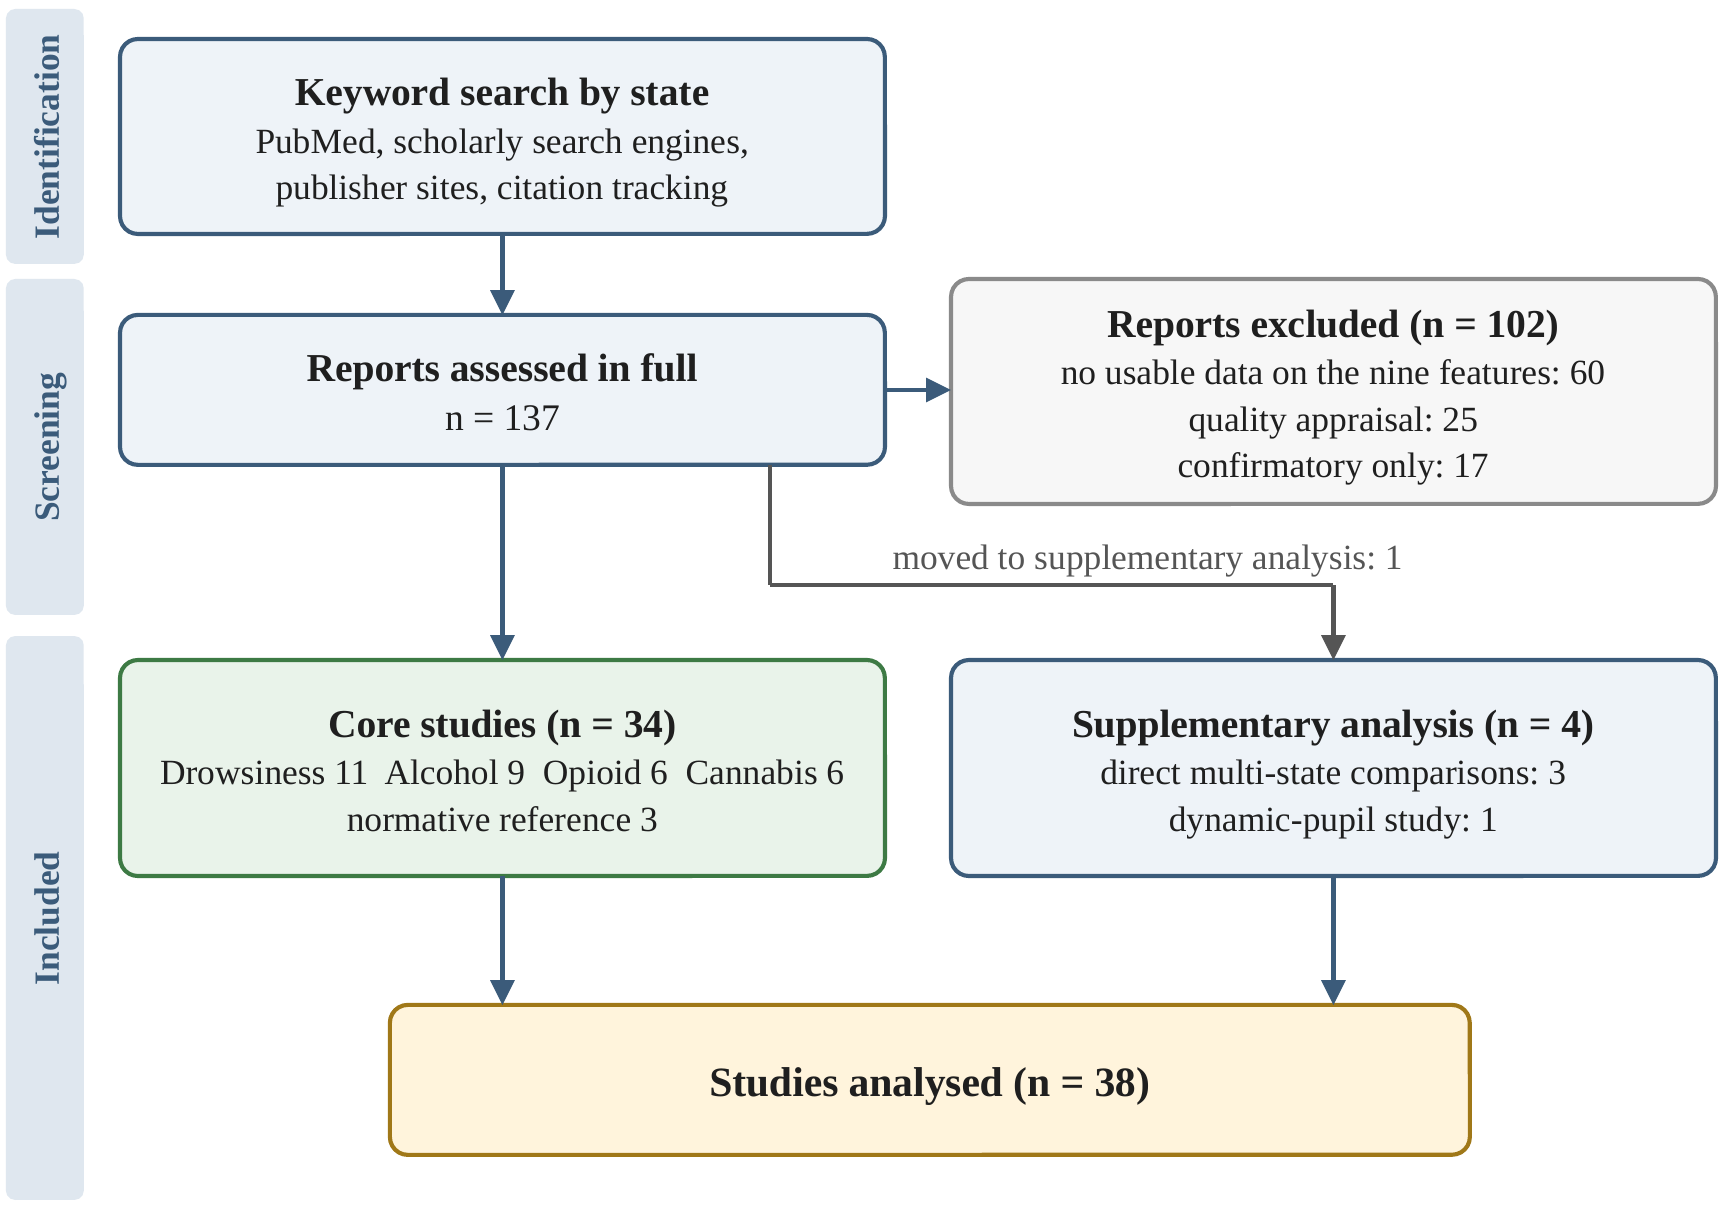
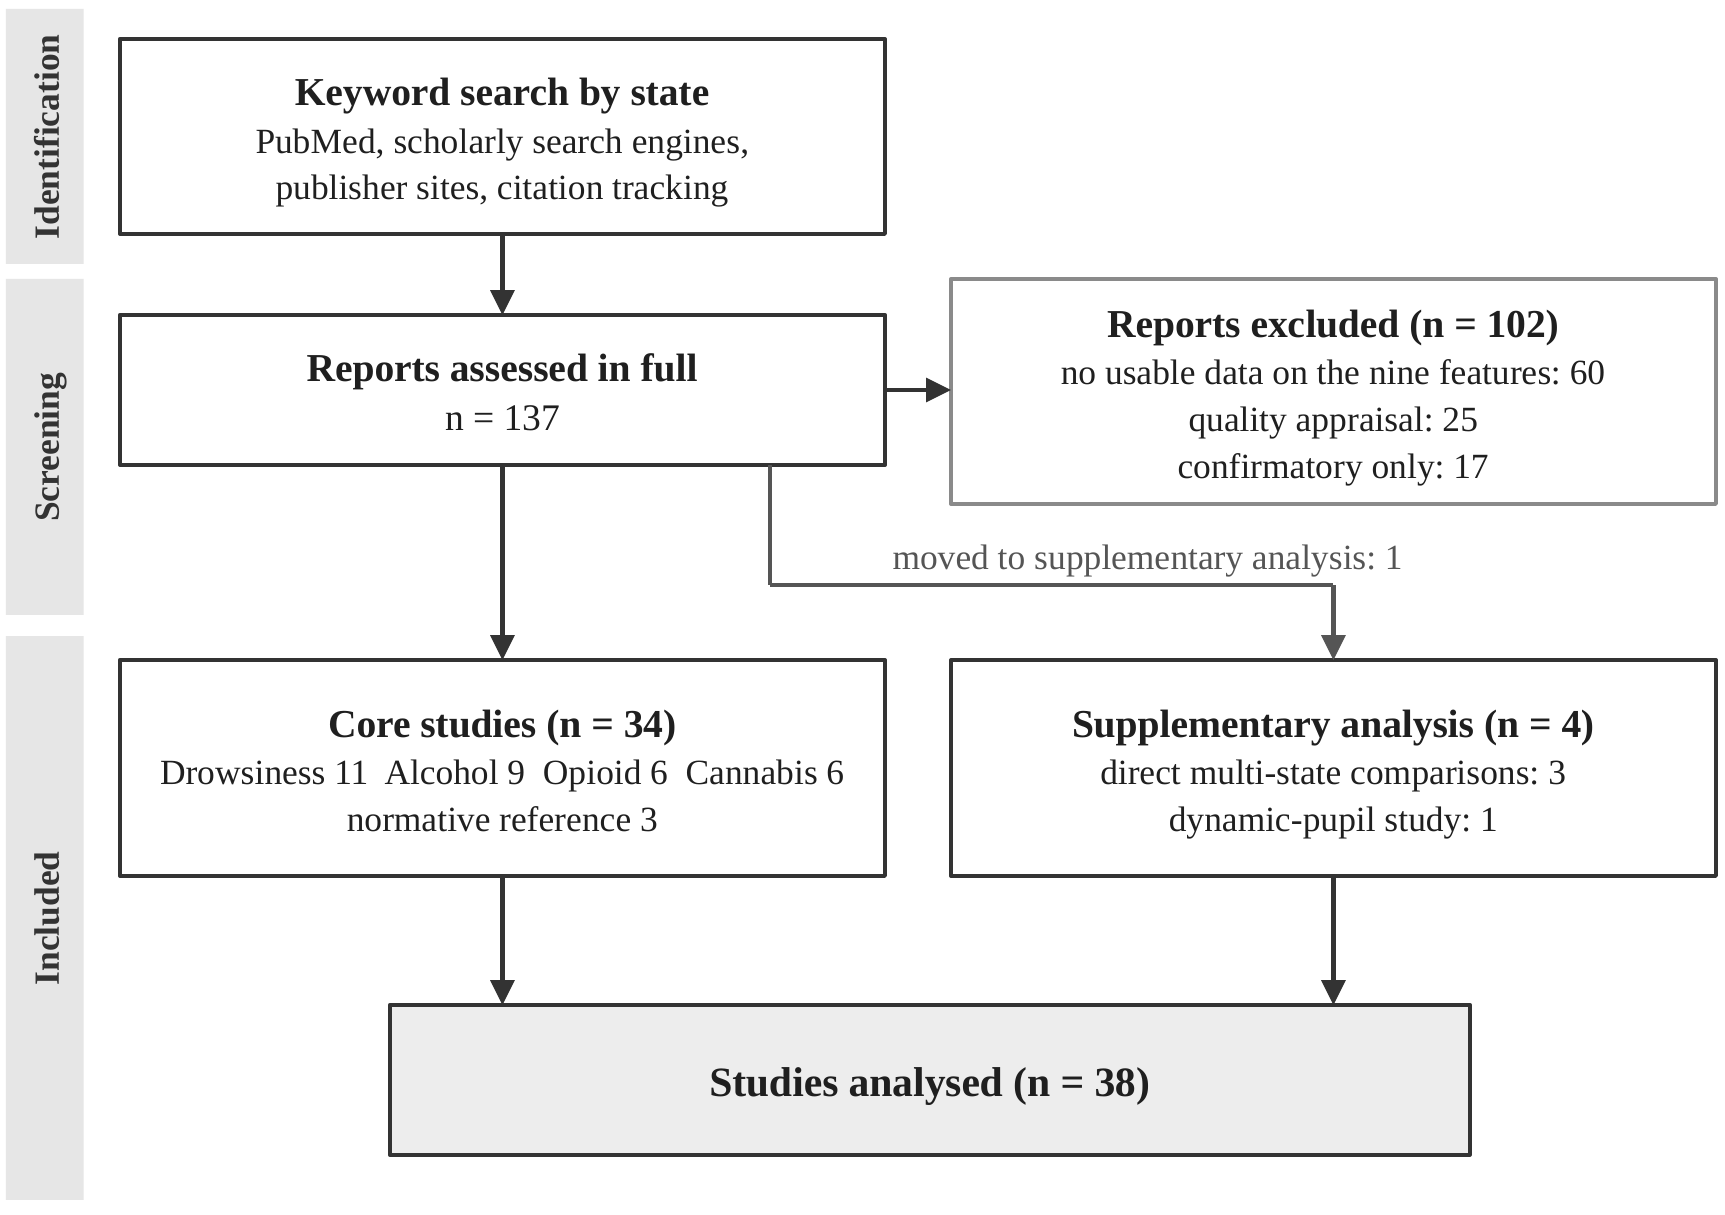
Graphic modification

diff --git a/src/make_main_figures.py b/src/make_main_figures.py
@@ -20,13 +20,13 @@ plt.rcParams.update({"font.family": "serif", "font.serif": ["Times New Roman", "
                      "axes.titleweight": "bold", "mathtext.fontset": "stix"})
 STATES = ["AL", "DR", "AC", "OP", "CB"]
 LAB = {"AL": "Alert", "DR": "Drowsy", "AC": "Alcohol", "OP": "Opioid", "CB": "Cannabis"}
-COL = {"AL": "#0072B2", "DR": "#E69F00", "AC": "#009E73", "OP": "#D55E00", "CB": "#CC79A7"}
+COL = {"AL": "#6b7b8c", "DR": "#d1a054", "AC": "#6f9a6a", "OP": "#b0573d", "CB": "#8a6a96"}
 INK = "#1f1f1f"
 FEATS = P["features"]
 FN = {"P": "Eye closure (%)", "BD": "Blink duration", "SL": "Saccade latency", "PV": "Saccade peak velocity",
       "G": "Pursuit gain", "FD": "Fixation duration", "D": "Pupil diameter", "A": "PLR amplitude", "V": "PLR velocity"}
 SYM = {"P": "$P$", "BD": "$B_d$", "SL": "$L_s$", "PV": "$V_p$", "G": "$G_p$", "FD": "$F_d$", "D": "$D_p$", "A": "$A_c$", "V": "$V_c$"}
-seq = LinearSegmentedColormap.from_list("seq", ["#f4f8fb", "#9ecae1", "#2b6ca3", "#08306b"])
+seq = LinearSegmentedColormap.from_list("navy", ["#ffffff", "#c9d6e3", "#7f9cb8", "#3d5f82", "#14283f"])
 W = 6.3
 
 
@@ -54,7 +54,7 @@ for j, s in enumerate(STATES[1:]):
             T[i][j] = "mixed (n.s.)" if c["dir_sign"] == 0 else ("↑ dir. only" if c["dir_sign"] > 0 else "↓ dir. only")
         else:
             T[i][j] = "no data"
-cmap = LinearSegmentedColormap.from_list("div", ["#2166ac", "#67a9cf", "#d1e5f0", "#f2f2f2", "#fbe3d6", "#ef8a62", "#b2182b"])
+cmap = plt.get_cmap("RdBu_r")
 ax.imshow(M, cmap=cmap, vmin=-1, vmax=1, aspect="auto")
 for i in range(len(FEATS)):
     for j in range(4):
@@ -90,7 +90,7 @@ save(fig, "f_separability.png")
 fig = plt.figure(figsize=(W, 3.3))
 gs = fig.add_gridspec(1, 2, width_ratios=[1, 1.25], wspace=0.32, left=0.09, right=0.99, top=0.90, bottom=0.30)
 ax = fig.add_subplot(gs[0, 0]); ns = [int(k) for k in R["n_curve"]]
-for m, mk, c, lab in (("HMID", "s", "#2b6ca3", "HMID"), ("Random Forest", "^", "#08306b", "RF")):
+for m, mk, c, lab in (("HMID", "s", "#7a7a7a", "HMID"), ("Random Forest", "^", "#000000", "RF")):
     ax.plot(ns, [R["n_curve"][str(n)][m]["f1"][0] for n in ns], marker=mk, ms=4, color=c, lw=1.6, label=lab + " F1")
     ax.plot(ns, [R["n_curve"][str(n)][m]["alert_fpr"][0] for n in ns], marker=mk, ms=4, color=c, lw=1.1, ls="--", label=lab + " FAR")
 ax.set_xscale("log"); ax.set_xticks(ns); ax.set_xticklabels(ns); ax.set_xlabel("Averaged 1-min epochs"); ax.set_ylim(0, 1.02)
@@ -108,7 +108,7 @@ fl = ref["f1"] - np.array([[G[f"{f}|{r}"]["RF"]["f1"] for r in RES] for f in FPS
 ol = ref["rec_OP"] - np.array([[G[f"{f}|{r}"]["RF"]["rec_OP"] for r in RES] for f in FPS])
 ok = (fl <= 0.03) & (ol <= 0.03)
 fig = plt.figure(figsize=(W, 6.1))
-gs = fig.add_gridspec(2, 2, height_ratios=[1, 1.05], hspace=0.45, wspace=0.30, left=0.10, right=0.98, top=0.95, bottom=0.08)
+gs = fig.add_gridspec(2, 2, height_ratios=[1, 1.05], hspace=0.45, wspace=0.30, left=0.10, right=0.86, top=0.95, bottom=0.08)
 for k, (M, ttl) in enumerate(((fl, "(a) Macro-F1 loss"), (ol, "(b) Opioid-recall loss"))):
     ax = fig.add_subplot(gs[0, k]); ax.imshow(M, cmap=seq.reversed(), aspect="auto", origin="lower", vmin=0, vmax=0.08)
     for a in range(len(FPS)):
@@ -116,15 +116,17 @@ for k, (M, ttl) in enumerate(((fl, "(a) Macro-F1 loss"), (ol, "(b) Opioid-recall
             v = M[a, b]
             ax.text(b, a, f"{v:.3f}", ha="center", va="center", fontsize=MIN, fontweight="bold" if v <= 0.03 else "normal", color="white" if v < 0.03 else INK)
             if ok[a, b]:
-                ax.add_patch(plt.Rectangle((b - 0.5, a - 0.5), 1, 1, fill=False, ec="#D55E00", lw=1.5))
+                ax.add_patch(plt.Rectangle((b - 0.5, a - 0.5), 1, 1, fill=False, ec="black", lw=2.0))
     ax.set_xticks(range(len(RES))); ax.set_xticklabels([f"{r:.2f}" for r in RES]); ax.set_yticks(range(len(FPS))); ax.set_yticklabels(FPS)
     ax.set_xlabel("Pupil resolution (mm)"); ax.set_ylabel("Frame rate (fps)"); ax.set_title(ttl); clean(ax)
 ax = fig.add_subplot(gs[1, :]); fov = np.linspace(30, 130, 200)
-for rr, ls in ((0.30, ":"), (0.20, "-"), (0.15, "--"), (0.10, "-.")):
-    ax.plot(fov, 0.5 * 2 * 0.65 * np.tan(np.radians(fov) / 2) * 1000 / rr, ls, color="#08306b", lw=1.5, label=f"r = {rr:.2f} mm")
-for name, Hs, c in (("1.0 MP (1280 px)", 1280, "#6b6b6b"), ("1.5 MP (1124 px)", 1124, "#9a9a9a"), ("5 MP (2560–2592 px)", 2592, "#D55E00")):
-    ax.axhline(Hs, color=c, lw=1.0, ls=(0, (4, 2))); ax.text(127, Hs * (1.07 if Hs == 1280 else 0.88), name, fontsize=MIN + 0.5, ha="right", va="center", color=c)
+for rr, ls, cv in ((0.30, ":", 0.45), (0.20, "-", 0.62), (0.15, "--", 0.80), (0.10, "-.", 1.0)):
+    yv = 0.5 * 2 * 0.65 * np.tan(np.radians(fov) / 2) * 1000 / rr
+    ax.plot(fov, yv, ls=ls, color=seq(cv), lw=2.0)
+    ax.text(131, yv[-1], f"r = {rr:.2f} mm", fontsize=MIN + 0.5, va="center", ha="left", color=seq(cv), clip_on=False)
+for name, Hs, c in (("1.0 MP (1280 px)", 1280, "#8a8a8a"), ("1.5 MP (1124 px)", 1124, "#8a8a8a"), ("5 MP (2560–2592 px)", 2592, "#b0573d")):
+    ax.axhline(Hs, color=c, lw=1.0, ls=(0, (2, 2))); ax.text(127, Hs * (1.07 if Hs == 1280 else 0.88), name, fontsize=MIN + 0.5, ha="right", va="center", color=c)
 ax.set_yscale("log"); ax.set_ylim(500, 15000); ax.set_xlim(30, 130); ax.set_xlabel("Horizontal field of view (deg)"); ax.set_ylabel("Required horizontal pixels")
-ax.set_title("(c) Pixel budget (d = 0.65 m, κ = 0.5)"); ax.legend(frameon=False, loc="upper left", ncol=2)
+ax.set_title("(c) Pixel budget (d = 0.65 m, κ = 0.5)")
 save(fig, "f_requirement.png")
 print("main figures ok")

diff --git a/src/make_figures.py b/src/make_figures.py
@@ -18,12 +18,14 @@ plt.rcParams.update({"font.family": "serif", "font.serif": ["Times New Roman", "
                      "axes.titlesize": 10.5, "mathtext.fontset": "stix"})
 STATES = ["AL", "DR", "AC", "OP", "CB"]
 LAB = {"AL": "Alert", "DR": "Drowsy", "AC": "Alcohol", "OP": "Opioid", "CB": "Cannabis (THC)"}
-COL = {"AL": "#0072B2", "DR": "#E69F00", "AC": "#009E73", "OP": "#D55E00", "CB": "#CC79A7"}
+COL = {"AL": "#6b7b8c", "DR": "#d1a054", "AC": "#6f9a6a", "OP": "#b0573d", "CB": "#8a6a96"}
+LC = COL
+LS = {"AL": "-", "DR": "--", "AC": "-", "OP": ":", "CB": "-."}
 INK, MUTED = "#1f1f1f", "#6b6b6b"
 FEATS = P["features"]
 FN = {"P": "Eye closure (%)", "BD": "Blink duration (ms)", "SL": "Saccade latency (ms)", "PV": "Saccade peak velocity (deg/s)",
       "G": "Smooth-pursuit gain", "FD": "Fixation duration (ms)", "D": "Pupil diameter (mm)", "A": "PLR amplitude (%)", "V": "PLR velocity (mm/s)"}
-seq = LinearSegmentedColormap.from_list("seq", ["#f4f8fb", "#9ecae1", "#2b6ca3", "#08306b"])
+seq = LinearSegmentedColormap.from_list("navy", ["#ffffff", "#c9d6e3", "#7f9cb8", "#3d5f82", "#14283f"])
 
 
 def save(fig, n):
@@ -36,7 +38,7 @@ MU = {s: np.array(v) for s, v in P["MU_E"].items()}; SD = {s: np.array(v) for s,
 fig, axs = plt.subplots(3, 3, figsize=(7.6, 6.4))
 for k, ax in enumerate(axs.flat):
     for j, s in enumerate(STATES):
-        ax.bar(j, MU[s][k], width=0.72, color=COL[s], edgecolor="white")
+        ax.bar(j, MU[s][k], width=0.72, color=COL[s], edgecolor="white", lw=0.4)
         ax.errorbar(j, MU[s][k], yerr=SD[s][k], color=INK, capsize=2.5, lw=0.9)
     ax.set_xticks(range(5)); ax.set_xticklabels(STATES, fontsize=8); ax.set_title(FN[FEATS[k]], fontsize=8.5); ax.tick_params(labelsize=8)
 fig.tight_layout(); save(fig, "f_archetypes.png")
@@ -52,7 +54,7 @@ for s in STATES:
     tt = t - t_on - lat; u = np.clip(tt / tc, 0, 1)
     y = d0 - amp * (3 * u ** 2 - 2 * u ** 3)
     rec = np.where(tt > tc + 0.15, amp * (1 - np.exp(-(tt - tc - 0.15) / 1.0)), 0)
-    axs[0].plot(t, y + rec, color=COL[s], lw=2, label=LAB[s], ls="--" if s == "OP" else "-")
+    axs[0].plot(t, y + rec, color=LC[s], lw=1.6, label=LAB[s], ls=LS[s])
 axs[0].axvline(t_on, color=MUTED, lw=0.8, ls=":"); axs[0].set_xlabel("Time (s)"); axs[0].set_ylabel("Pupil diameter (mm)"); axs[0].set_title("(a) Pupillary light reflex")
 tm = np.linspace(0, 400, 4000); dt = (tm[1] - tm[0]) / 1000; AMP = {}
 xs = np.linspace(0, 1, 4001); g0 = xs ** 1.5 * (1 - xs) ** 2.2; gmax = g0.max(); gs = g0 / gmax; gint = np.trapezoid(gs, xs)
@@ -61,7 +63,7 @@ for s in STATES:
     x = (tm - sl) / (1000 * T)
     v = np.where((x > 0) & (x < 1), np.clip(x, 0, 1) ** 1.5 * (1 - np.clip(x, 0, 1)) ** 2.2, 0) / gmax * vp
     AMP[s] = (np.trapezoid(v, tm) / 1000, v.max())
-    axs[1].plot(tm, v, color=COL[s], lw=2, ls="--" if s == "OP" else "-")
+    axs[1].plot(tm, v, color=LC[s], lw=1.6, ls=LS[s])
 axs[1].set_xlabel("Time from target onset (ms)"); axs[1].set_ylabel("Eye angular velocity (deg/s)"); axs[1].set_title("(b) Saccadic velocity profile (15°)")
 h, l = axs[0].get_legend_handles_labels(); fig.legend(h, l, ncol=5, frameon=False, fontsize=8, loc="lower center", bbox_to_anchor=(0.5, -0.06))
 fig.tight_layout(rect=(0, 0.06, 1, 1)); save(fig, "f_dynamics.png")
@@ -73,7 +75,7 @@ def bateman(t, ka, ke):
 traj = {"DR": 1 / (1 + np.exp(-(tt - 60) / 12)), "AC": bateman(tt, 3.0, 0.3), "OP": 1 - np.exp(-tt / 10), "CB": bateman(tt, 2.0, 0.8)}
 fig, ax = plt.subplots(figsize=(5.6, 2.9))
 for s, y in traj.items():
-    ax.plot(tt, y, color=COL[s], lw=2, label=LAB[s], ls="--" if s == "OP" else "-")
+    ax.plot(tt, y, color=LC[s], lw=1.6, label=LAB[s], ls=LS[s])
 ax.set_xlabel("Time since onset of exposure / drive (min)"); ax.set_ylabel(r"Severity template $\lambda_s(\tau)$"); ax.set_ylim(0, 1.08)
 ax.legend(frameon=False, fontsize=8, loc="upper center", ncol=4, bbox_to_anchor=(0.5, -0.2))
 save(fig, "f_trajectory.png")

diff --git a/src/make_overview_figure.py b/src/make_overview_figure.py
@@ -15,7 +15,7 @@ plt.rcParams.update({"font.family": "serif", "font.serif": ["Times New Roman", "
                      "savefig.dpi": 200, "axes.titleweight": "bold"})
 ST = ["AL", "DR", "AC", "OP", "CB"]
 NAME = {"AL": "Alert", "DR": "Drowsy", "AC": "Alcohol", "OP": "Opioid", "CB": "Cannabis"}
-CAT = {"abs": ("Absolute values", "#2b6ca3"), "base": ("Only with a baseline", "#9ecae1"), "none": ("Not established", "#e7e7e7")}
+CAT = {"abs": ("Absolute values", "#3c3c3c"), "base": ("Only with a baseline", "#bdbdbd"), "none": ("Not established", "#ffffff")}
 
 
 def verdict(pr):
@@ -35,7 +35,7 @@ for i in range(5):
         if i == j:
             ax.add_patch(Rectangle((j, 4 - i), 1, 1, fc="white", ec="#cccccc")); continue
         v, a, b = verdict(key(i, j))
-        ax.add_patch(Rectangle((j, 4 - i), 1, 1, fc=CAT[v][1], ec="white", lw=2))
+        ax.add_patch(Rectangle((j, 4 - i), 1, 1, fc=CAT[v][1], ec="#777777", lw=0.8))
         txt = f"{a:.3f}" if i > j else f"{b:.3f}"
         ax.text(j + 0.5, 4 - i + 0.5, txt, ha="center", va="center", fontsize=9.5, color="white" if v == "abs" else "#1f1f1f")
 ax.set_xlim(0, 5); ax.set_ylim(0, 5); ax.set_aspect("equal")
@@ -54,8 +54,8 @@ rows = [("Random forest, no baseline", m["Random Forest"]["f1"][0], m["Random Fo
         ("Random forest, with baseline", o["Random Forest"]["f1"][0], o["Random Forest"]["alert_fpr"][0]),
         ("HMID rules, with baseline", o["HMID"]["f1"][0], o["HMID"]["alert_fpr"][0])]
 y = np.arange(len(rows))[::-1]
-bx.barh(y + 0.18, [r[1] for r in rows], 0.34, color="#2b6ca3", label="Five-state macro-F1")
-bx.barh(y - 0.18, [r[2] for r in rows], 0.34, color="#D55E00", label="Alert false-alarm rate")
+bx.barh(y + 0.18, [r[1] for r in rows], 0.34, color="#3c3c3c", edgecolor="black", lw=0.5, label="Five-state macro-F1")
+bx.barh(y - 0.18, [r[2] for r in rows], 0.34, color="#ffffff", edgecolor="black", lw=0.8, label="Alert false-alarm rate")
 for yy, r in zip(y, rows):
     bx.text(r[1] + 0.01, yy + 0.18, f"{r[1]:.3f}", va="center", fontsize=9)
     bx.text(r[2] + 0.01, yy - 0.18, f"{100 * r[2]:.1f}%", va="center", fontsize=9)

diff --git a/src/make_block_diagrams.py b/src/make_block_diagrams.py
@@ -18,9 +18,9 @@ os.makedirs(SRC, exist_ok=True)
 P = json.load(open(os.path.join(RD, "params.json"), encoding="utf-8"))
 EV = {s: json.load(open(os.path.join(BASE, "evidence", f"{s}.json"), encoding="utf-8")) for s in ("drowsiness", "alcohol", "opioid", "cannabis")}
 FONT = "Times New Roman"
-INK, MUTED, EDGE = "1F1F1F", "555555", "3B5B7A"
-FILL = {"in": "EEF3F8", "key": "FFF4DC", "out": "E9F3EA", "ex": "F7F7F7", "stage": "DFE7EF"}
-EDGES = {"in": "3B5B7A", "key": "A07818", "out": "3D7A44", "ex": "8A8A8A", "stage": None}
+INK, MUTED, EDGE = "1F1F1F", "555555", "333333"
+FILL = {"in": "FFFFFF", "key": "EDEDED", "out": "FFFFFF", "ex": "FFFFFF", "stage": "E6E6E6"}
+EDGES = {"in": "333333", "key": "333333", "out": "333333", "ex": "8A8A8A", "stage": None}
 
 
 def rgb(h):
@@ -45,7 +45,7 @@ def runs(par, text, size, bold=False, color=INK):
             pos = m.end()
 
 
-def box(sl, x, y, w, h, lines, kind="in", size=9.0, round_=True):
+def box(sl, x, y, w, h, lines, kind="in", size=9.0, round_=False):
     """lines: list of (markup text, bold, size or None)."""
     shp = sl.shapes.add_shape(MSO_SHAPE.ROUNDED_RECTANGLE if round_ else MSO_SHAPE.RECTANGLE, Inches(x), Inches(y), Inches(w), Inches(h))
     if round_:

diff --git a/src/make_generation_figure.py b/src/make_generation_figure.py
@@ -22,8 +22,8 @@ plt.rcParams.update({"font.family": "DejaVu Sans", "font.size": 9, "savefig.dpi"
 FEATS = ["P", "BD", "SL", "PV", "G", "FD", "D", "A", "V"]
 LAB = {"P": "$P$", "BD": "$B_d$", "SL": "$L_s$", "PV": "$V_p$", "G": "$G_p$", "FD": "$F_d$", "D": "$D_p$", "A": "$A_c$", "V": "$V_c$"}
 STATES = [("DR", "Drowsy"), ("AC", "Alcohol"), ("OP", "Opioid"), ("CB", "Cannabis (THC)")]
-INK = "#1f2933"; MUTED = "#6b7480"
-CMAP = LinearSegmentedColormap.from_list("div", ["#2b6cb0", "#9cc3e6", "#eceff1", "#f2b880", "#c2571a"])
+INK = "#1f1f1f"; MUTED = "#6b6b6b"
+CMAP = plt.get_cmap("RdBu_r")
 
 
 def glyph(c, s, f):
@@ -50,7 +50,7 @@ def main():
             g, d = glyph(P["states"][s][f], s, f)
             if d is not None:
                 M[i, j] = np.clip(d, -0.5, 0.5)
-            col = "#f4f5f6" if d is None else CMAP((np.clip(d, -0.5, 0.5) + 0.5))
+            col = "#f2f2f2" if d is None else CMAP((np.clip(d, -0.5, 0.5) + 0.5))
             ax.add_patch(plt.Rectangle((j, 3 - i), 0.96, 0.92, fc=col, ec="white", lw=1.5))
             if d is None:
                 txt = g
